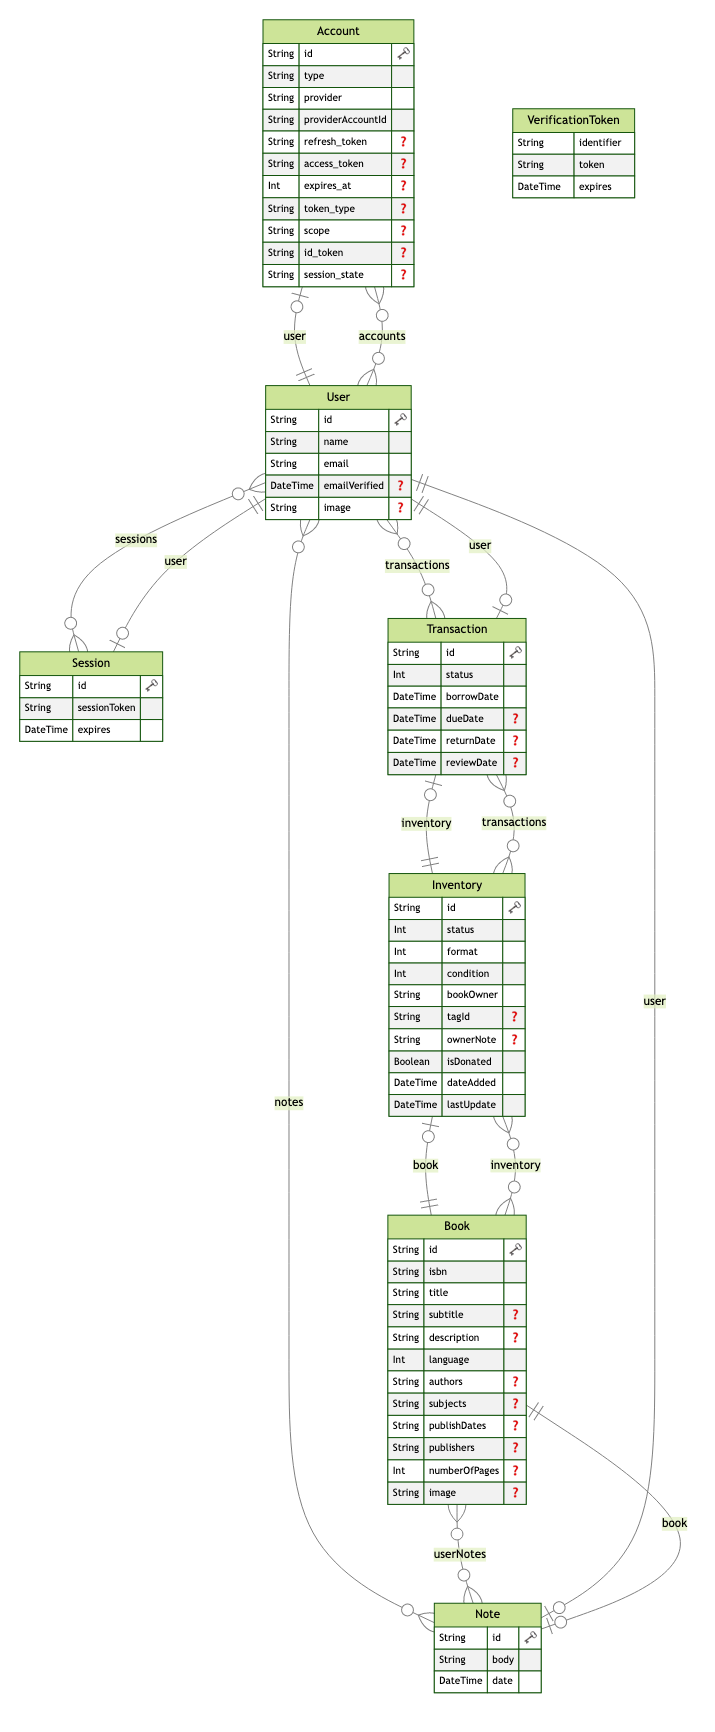
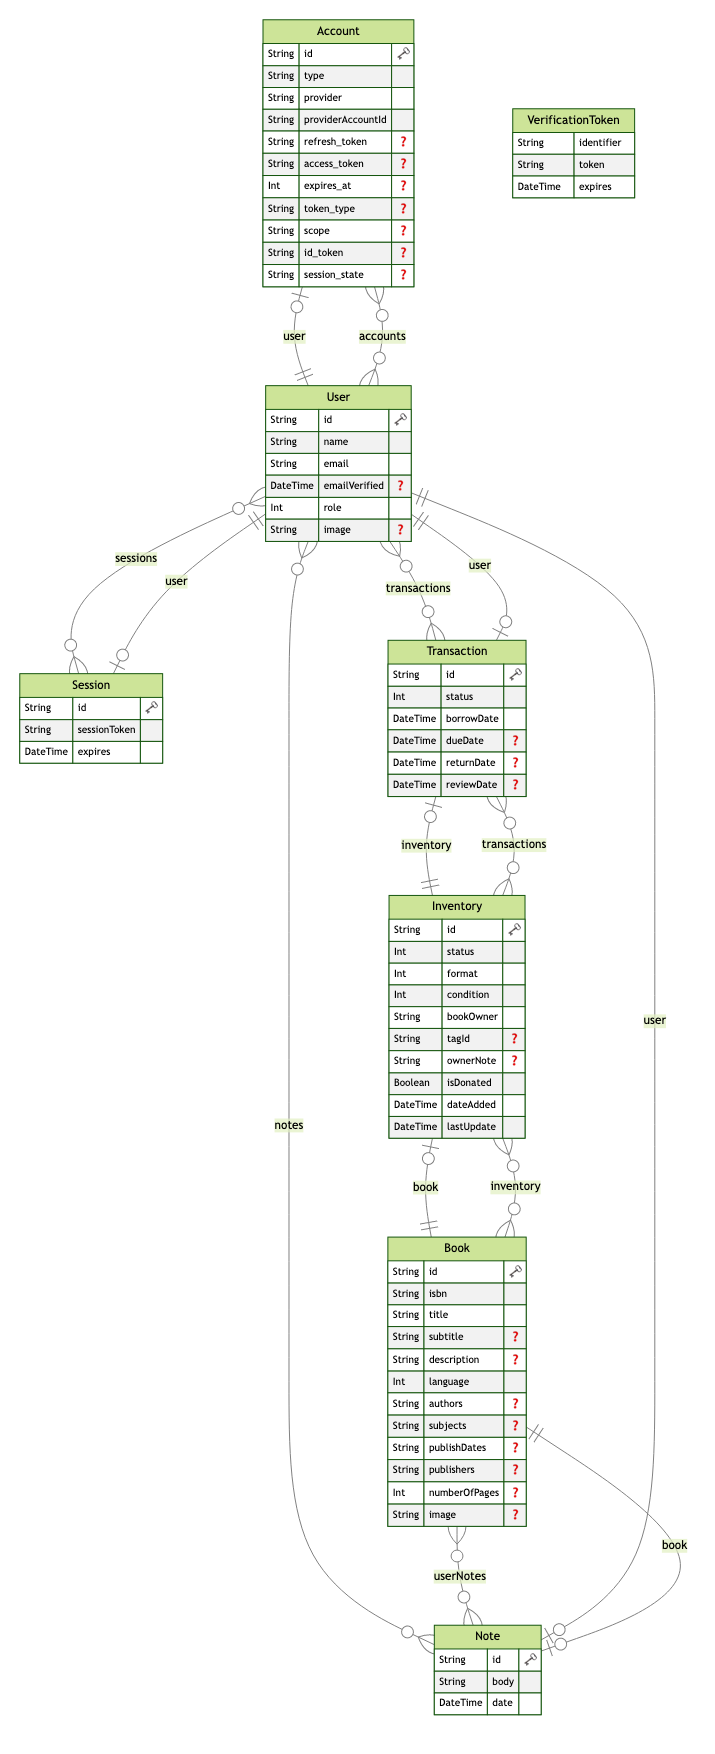
:lock: Add authorization to manage page

diff --git a/src/components/navbar.tsx b/src/components/navbar.tsx
@@ -1,23 +1,26 @@
 import React from "react";
 import NavLink from "./navlink";
-import { useState } from "react";
-import { faBars, faX } from "@fortawesome/free-solid-svg-icons";
-import { FontAwesomeIcon } from "@fortawesome/react-fontawesome";
-import Modal from "@mui/material/Modal";
-import { type } from "os";
+import { Role } from "utils/enum";
+import { useSession } from "next-auth/react";
 
 type Props = {
   isOpen: boolean;
   setIsOpen?: (boolean: boolean) => void;
 };
-const pages = [
-  { name: "Home", href: "/" },
-  { name: "Catalog", href: "/catalog" },
-  { name: "Manage", href: "/manage" },
-  { name: "Account", href: "/account" },
-];
 
 const Navbar = ({ isOpen, setIsOpen }: Props) => {
+  const { data: session, status } = useSession();
+
+  const pages = [
+    { name: "Home", href: "/" },
+    { name: "Catalog", href: "/catalog" },
+    { name: "Account", href: "/account" },
+  ];
+
+  if (session?.user.role === Role.Admin) {
+    pages.push({ name: "Manage", href: "/manage" });
+  }
+
   return (
     <>
       <nav
@@ -25,11 +28,12 @@ const Navbar = ({ isOpen, setIsOpen }: Props) => {
         ${isOpen ? "pb-4  md:h-auto" : "hidden md:flex "}
            `}
       >
-        {pages.map((page) => (
-          <NavLink href={page.href} key={page.name}>
-            {page.name}
-          </NavLink>
-        ))}
+        {pages !== undefined &&
+          pages.map((page) => (
+            <NavLink href={page.href} key={page.name}>
+              {page.name}
+            </NavLink>
+          ))}
       </nav>
     </>
   );

diff --git a/src/pages/manage.tsx b/src/pages/manage.tsx
@@ -9,8 +9,30 @@ import {
   Language,
   getEnumKey,
   TransactionStatus,
+  Role,
 } from "utils/enum";
 import { ToReviewTable } from "~/components/toReviewTable";
+import { getServerSession } from "next-auth";
+import { authOptions } from "~/server/auth";
+
+export async function getServerSideProps(context: any) {
+  const session = await getServerSession(context.req, context.res, authOptions);
+
+  if (session?.user.role !== Role.Admin) {
+    return {
+      redirect: {
+        destination: "/",
+        permanent: false,
+      },
+    };
+  }
+
+  return {
+    props: {
+      session,
+    },
+  };
+}
 
 type Stat = { name: string; value: number; color: string };
 

diff --git a/src/server/auth.ts b/src/server/auth.ts
@@ -19,15 +19,17 @@ declare module "next-auth" {
   interface Session extends DefaultSession {
     user: {
       id: string;
+      role: number;
       // ...other properties
       // role: UserRole;
     } & DefaultSession["user"];
   }
 
-  // interface User {
-  //   // ...other properties
-  //   // role: UserRole;
-  // }
+  interface User {
+    role: number;
+    // ...other properties
+    // role: UserRole;
+  }
 }
 
 /**
@@ -42,6 +44,7 @@ export const authOptions: NextAuthOptions = {
       user: {
         ...session.user,
         id: user.id,
+        role: user.role,
       },
     }),
   },

diff --git a/utils/enum.ts b/utils/enum.ts
@@ -37,6 +37,11 @@ export const TransactionStatus = {
   Other: 3,
 };
 
+export const Role = {
+  User: 0,
+  Admin: 1,
+};
+
 export function enumObjToFilterItem(enumObj: any) {
   return Object.keys(enumObj).map((key, index) => {
     return {
